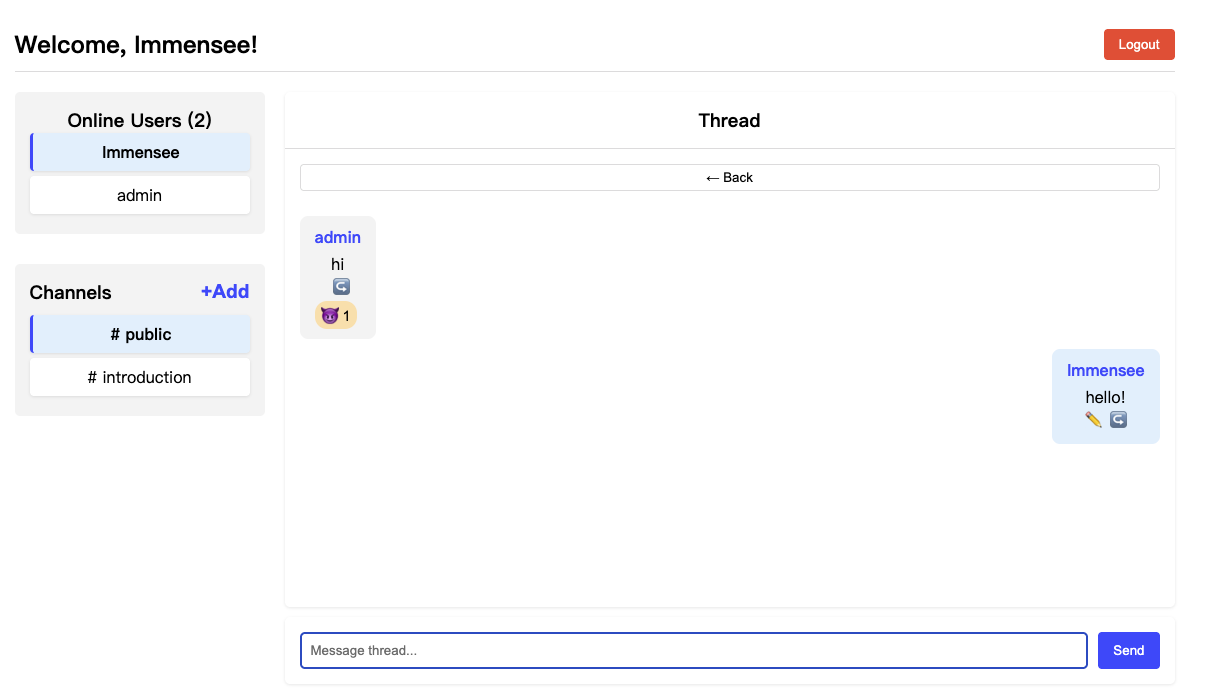
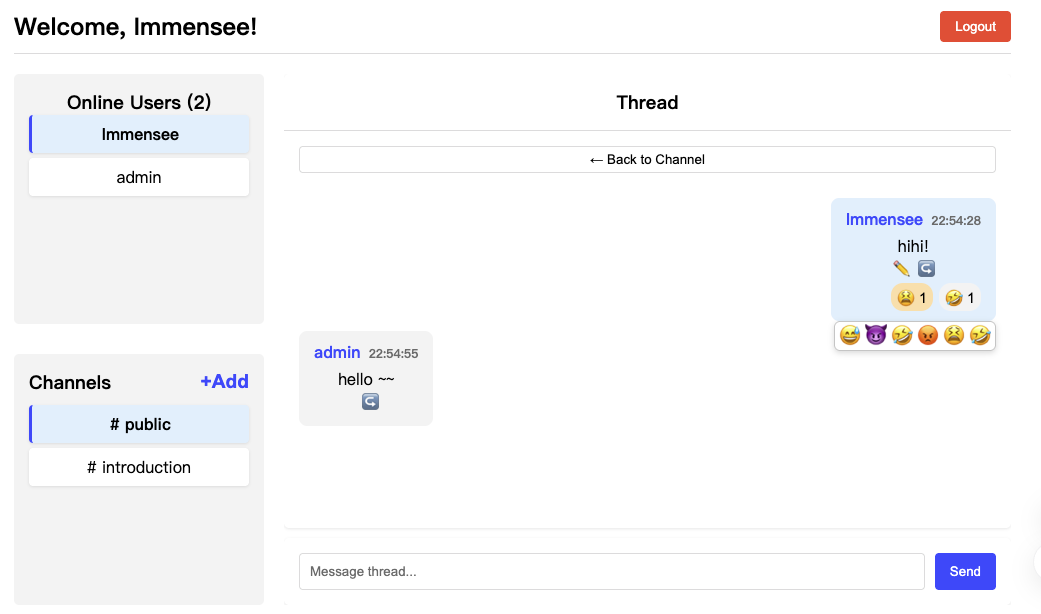
fix thread timestamp

diff --git a/src/ThreadView.jsx b/src/ThreadView.jsx
@@ -26,9 +26,9 @@ export default function ThreadView({ messages, username, onBack, onToggle, hover
              onMouseEnter={() => setHoveredId(msg.id)}
              onMouseLeave={() => setHoveredId(null)}>
           <div className="message-username">
-            {root.username}
+            {msg.username}
             <span className="message-timestamp">
-              {new Date(root.timestamp).toLocaleTimeString()}
+              {new Date(msg.timestamp).toLocaleTimeString()}
             </span>
           </div>
 
